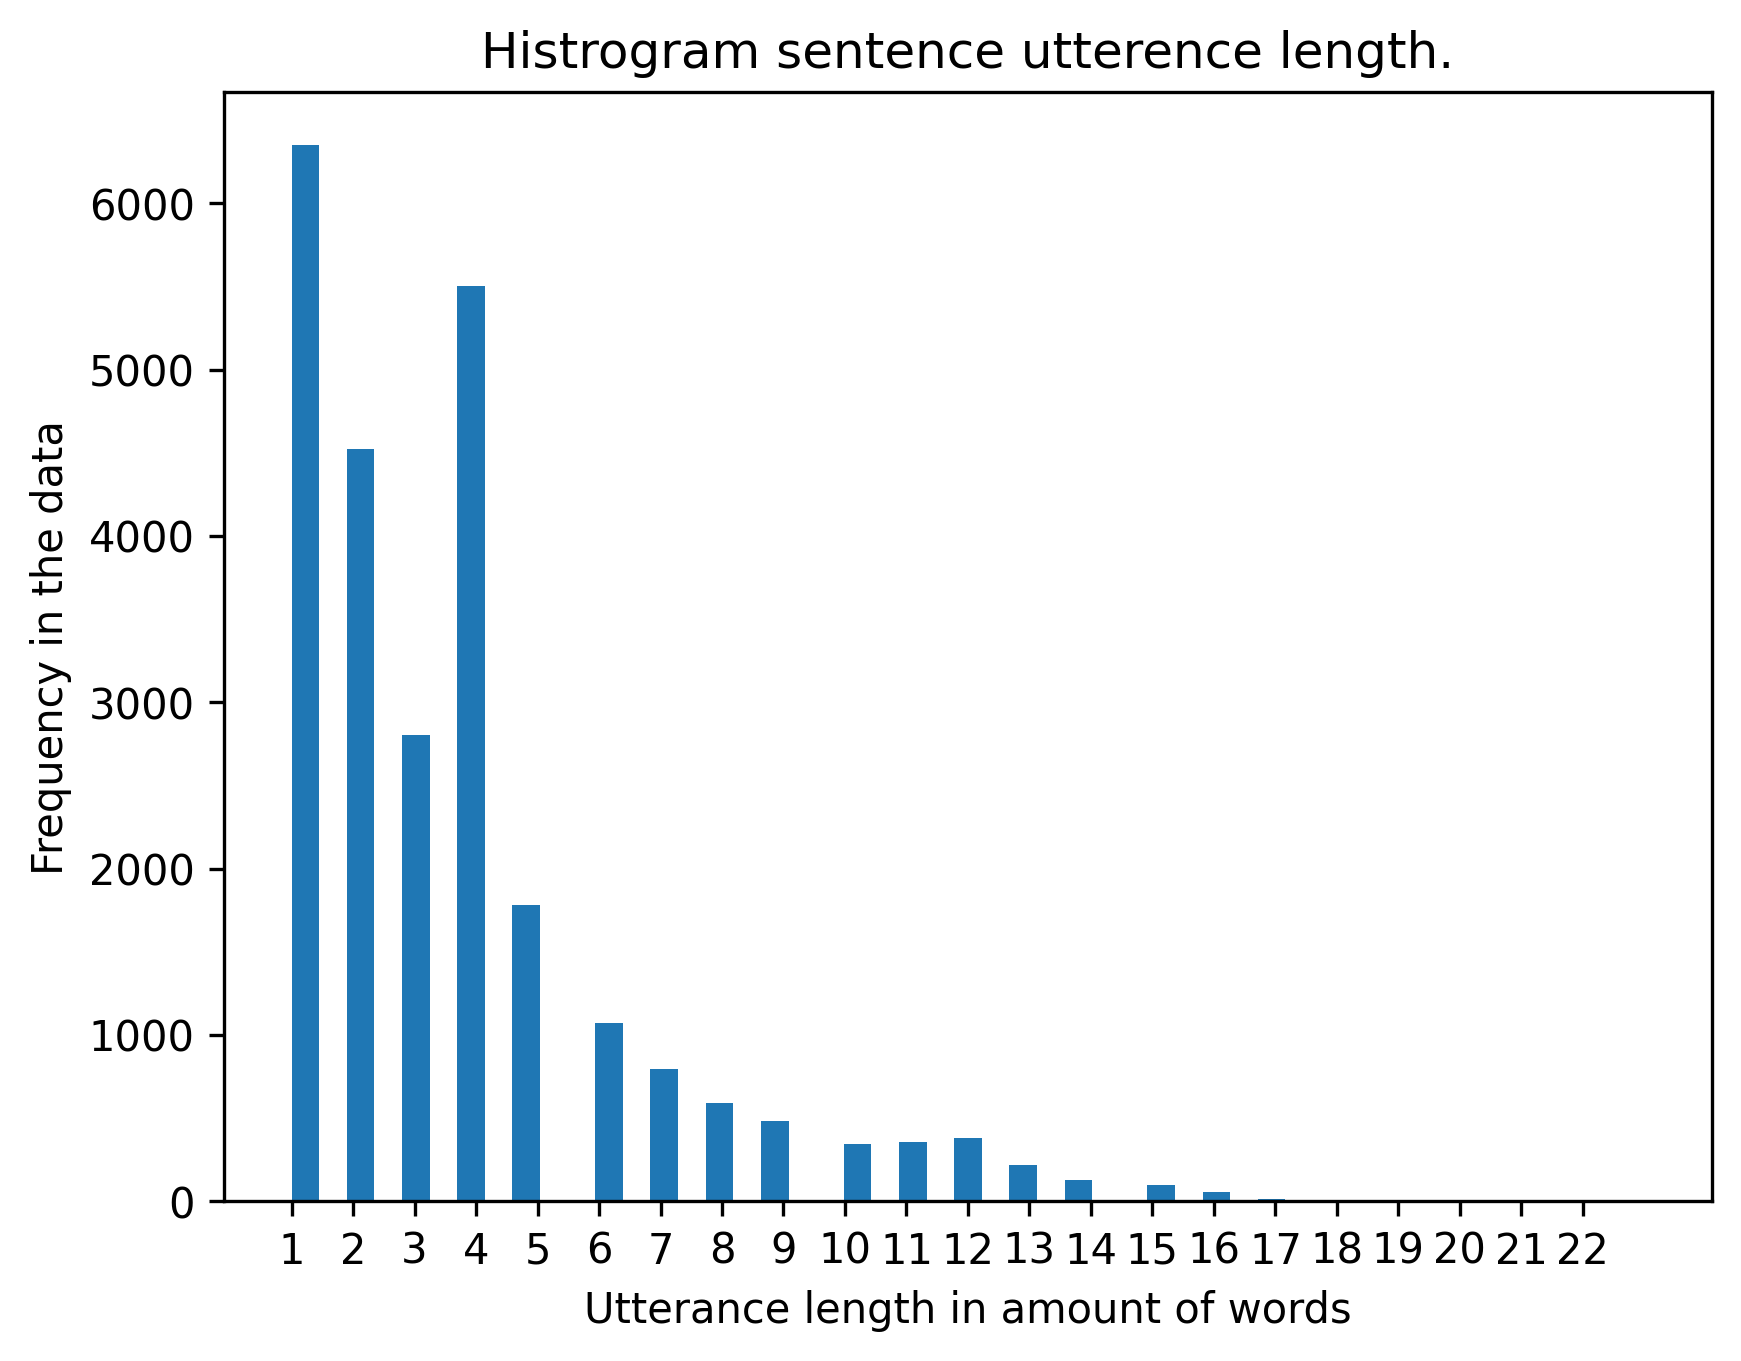
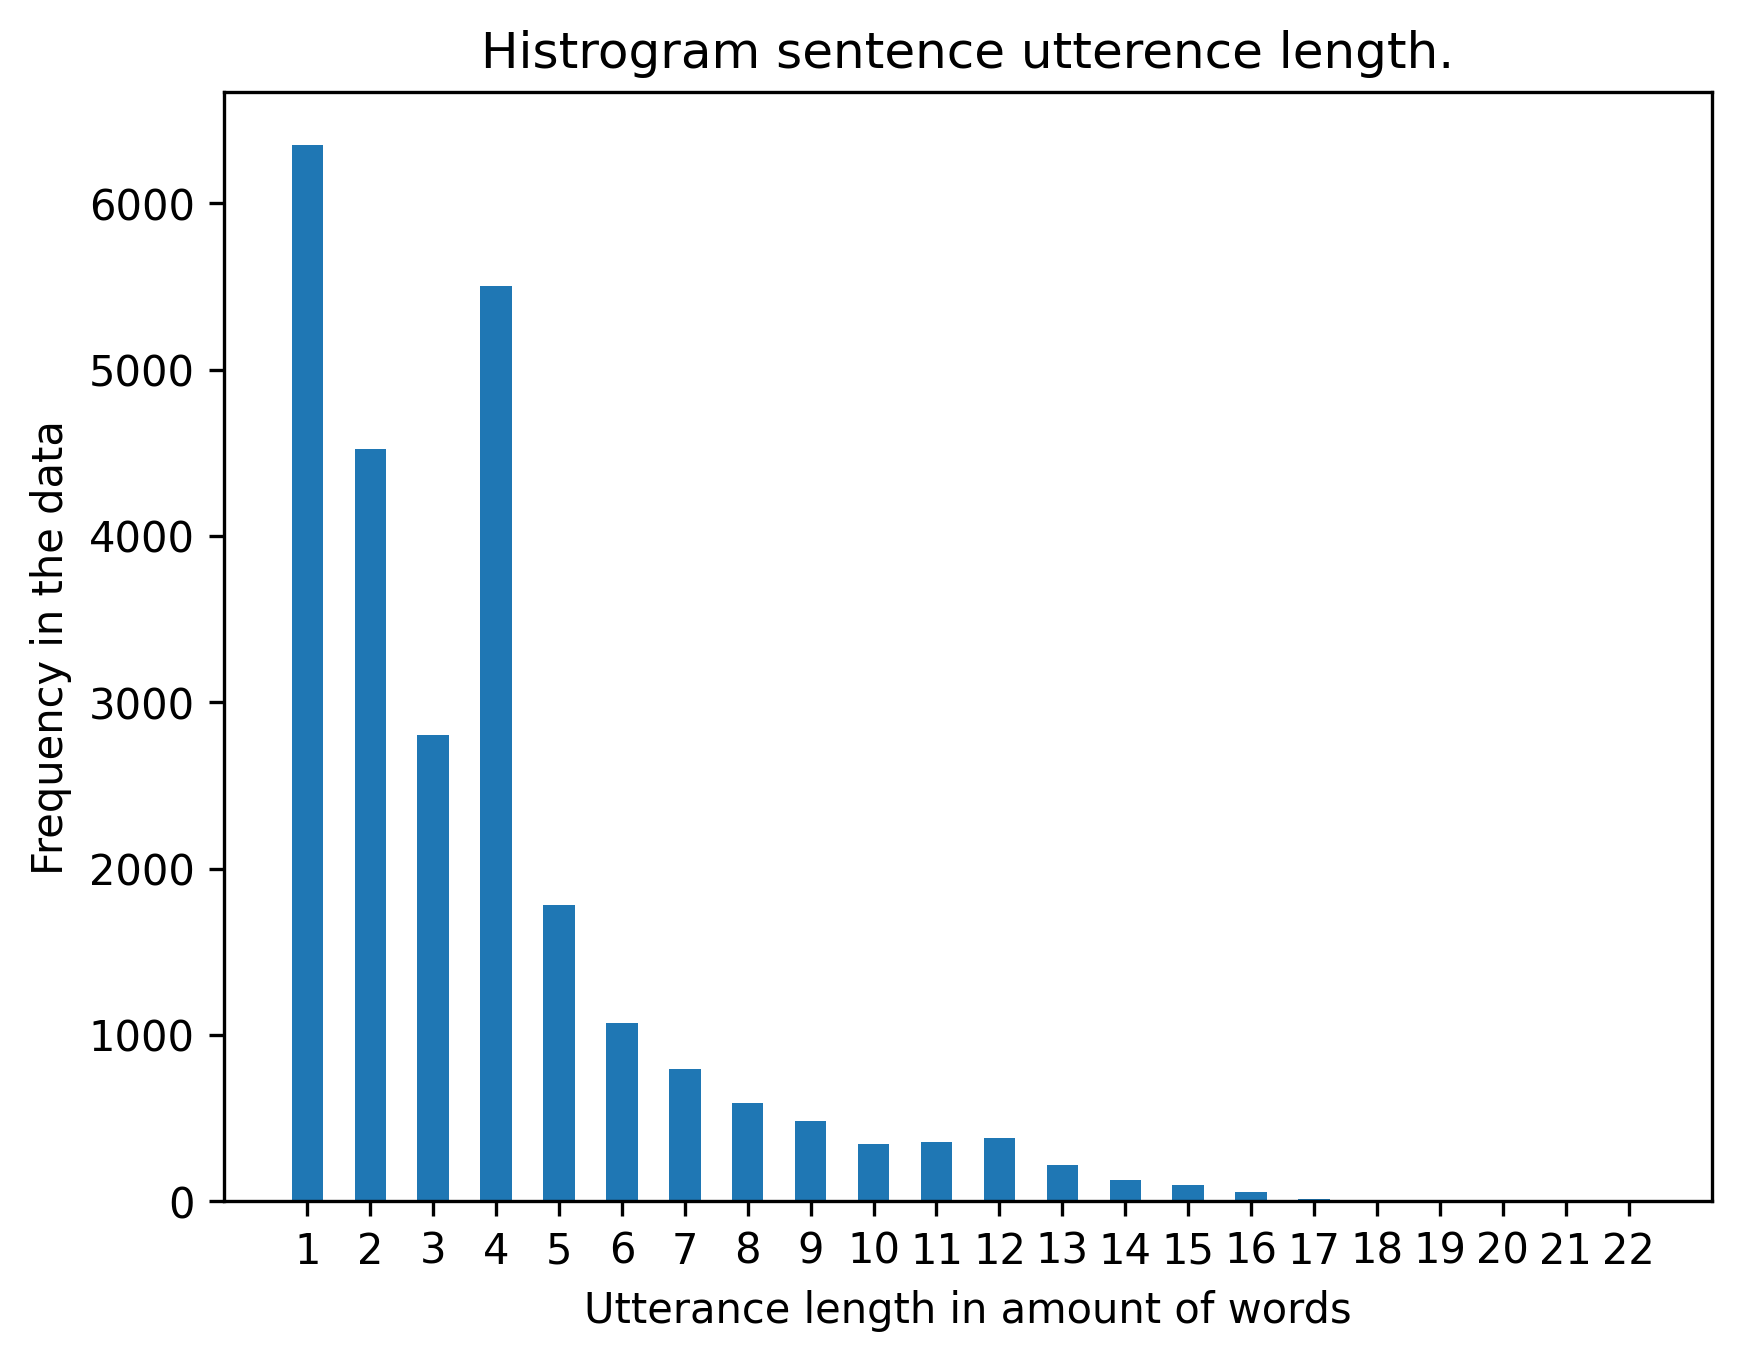
Fixed histogram that was offset

Changed region(s): [[0.1551, 0.216, 0.9615, 0.9258]]

diff --git a/descriptives.py b/descriptives.py
@@ -25,7 +25,7 @@ if __name__ == "__main__":
 
     # Create histogram that shows word length
     utt_fig, utt_ax = plt.subplots()
-    utt_ax.hist(sorted_lens, bins=np.linspace(1, lengths.max()))
+    utt_ax.hist(sorted_lens, bins=np.arange(0.5, lengths.max(), 1), rwidth=0.5)
     utt_ax.set_title("Histrogram sentence utterence length.")
     utt_ax.set_xlabel("Utterance length in amount of words")
     utt_ax.set_ylabel("Frequency in the data")
